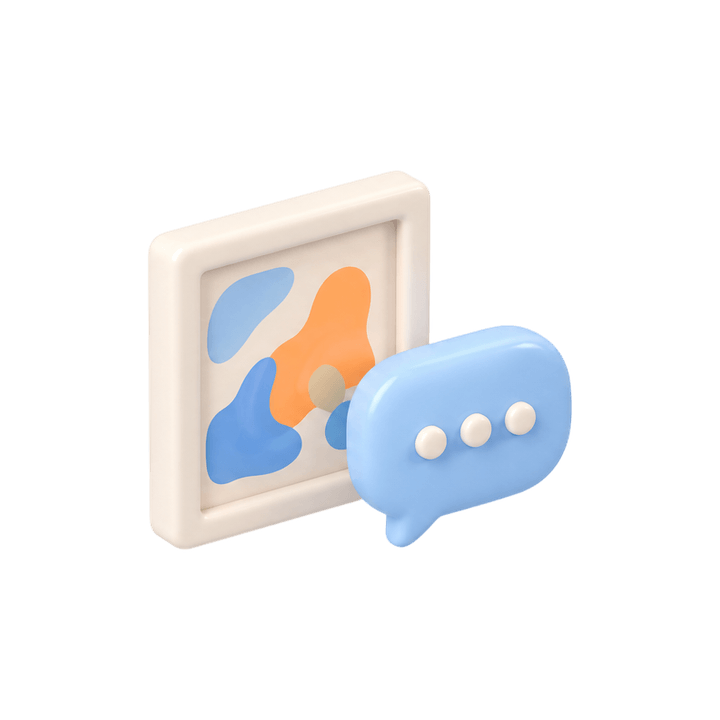
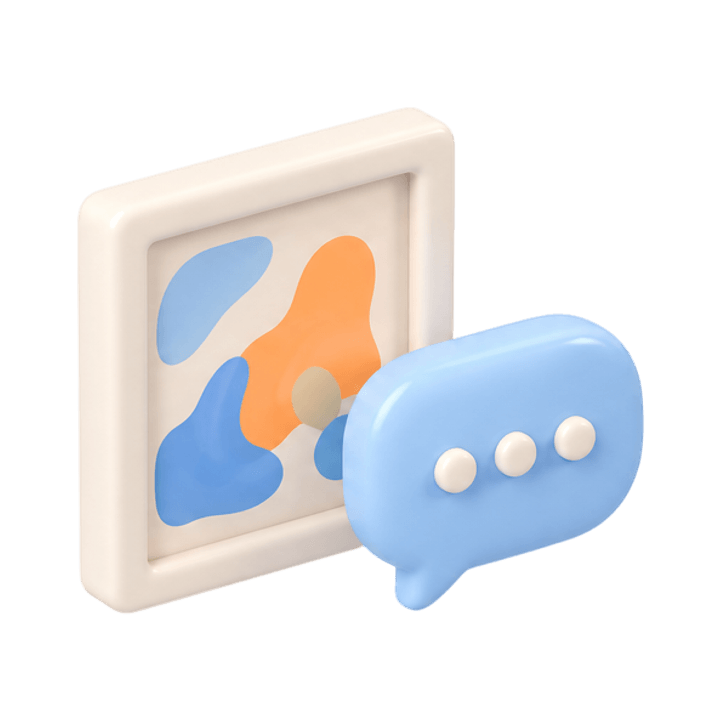
Предметы не реагируют на курсор, в Hero двигаются едва заметно
- Картинки в «Проблеме» вписаны в одинаковый квадрат.
- 3D-предметы больше не увеличиваются и не поворачиваются при наведении.
- В Hero амплитуда движения 3–5 px и медленнее, в остальных блоках
  предметы неподвижны, лента моделей тоже стоит на месте.

Changed region(s): [[0.0917, 0.1528, 0.9167, 0.8556]]

diff --git a/src/components/sections/service.tsx b/src/components/sections/service.tsx
@@ -58,7 +58,7 @@ function Polaroid({
 }) {
   return (
     <div
-      className={`absolute bg-white p-3 pb-9 shadow-[0_18px_40px_rgba(0,0,0,0.12)] transition-transform duration-500 ease-[cubic-bezier(0.16,1,0.3,1)] ${className}`}
+      className={`absolute bg-white p-3 pb-9 shadow-[0_18px_40px_rgba(0,0,0,0.12)] ${className}`}
     >
       <div className="flex h-full items-center justify-center bg-[#f4f4f4]">{children}</div>
       {caption && (
@@ -96,7 +96,7 @@ export function Service() {
                 src={MODELS.hoodie.src}
                 alt={MODELS.hoodie.alt}
                 draggable={false}
-                className={`absolute inset-0 m-auto h-[92%] w-[92%] transition-transform duration-500 group-hover:-rotate-3 group-hover:scale-105 ${modelImg}`}
+                className={`absolute inset-0 m-auto h-[92%] w-[92%] ${modelImg}`}
               />
             </>
           }
@@ -115,7 +115,7 @@ export function Service() {
                 src={MODELS.letter.src}
                 alt={MODELS.letter.alt}
                 draggable={false}
-                className={`absolute inset-0 m-auto h-[78%] w-[78%] rotate-6 transition-transform duration-500 group-hover:rotate-0 group-hover:scale-105 ${modelImg}`}
+                className={`absolute inset-0 m-auto h-[78%] w-[78%] rotate-6 ${modelImg}`}
               />
             </>
           }
@@ -128,10 +128,10 @@ export function Service() {
           title="Упаковка профиля"
           visual={
             <>
-              <Polaroid className="top-[6%] left-[2%] h-[70%] w-[58%] -rotate-6 group-hover:-rotate-9">
+              <Polaroid className="top-[6%] left-[2%] h-[70%] w-[58%] -rotate-6">
                 <img src={MODELS.letter.src} alt="" className={`h-[70%] w-[70%] -rotate-6 ${modelImg}`} />
               </Polaroid>
-              <Polaroid caption="профиль" className="right-[0%] bottom-[2%] h-[72%] w-[58%] rotate-[7deg] group-hover:rotate-[10deg]">
+              <Polaroid caption="профиль" className="right-[0%] bottom-[2%] h-[72%] w-[58%] rotate-[7deg]">
                 <img src={MODELS.skeleton.src} alt="" className={`h-[78%] w-[78%] ${modelImg}`} />
               </Polaroid>
             </>
@@ -145,7 +145,7 @@ export function Service() {
           title="Контент-система"
           visual={
             <>
-              <Polaroid caption="схема" className="inset-x-[8%] top-[10%] bottom-[2%] rotate-3 group-hover:rotate-0">
+              <Polaroid caption="схема" className="inset-x-[8%] top-[10%] bottom-[2%] rotate-3">
                 <div className="relative h-full w-full">
                   <img src={MODELS.pencil.src} alt="" className={`absolute top-[8%] left-[14%] h-[78%] w-[36%] -rotate-12 ${modelImg}`} />
                   <img src={MODELS.brush.src} alt="" className={`absolute right-[8%] bottom-[6%] h-[64%] w-[50%] ${modelImg}`} />

diff --git a/src/components/sections/models-strip.tsx b/src/components/sections/models-strip.tsx
@@ -1,8 +1,5 @@
-// Лента 3D-моделей: при прокрутке плавно уезжает вбок,
-// как полоса с одеждой у референса.
-import { useRef } from "react"
-import { motion, useReducedMotion, useScroll, useTransform } from "motion/react"
-
+// Лента 3D-моделей между блоками. Стоит неподвижно; на узком экране
+// лишние предметы просто уходят за край.
 import { MODELS } from "@/lib/models"
 
 const row = [
@@ -12,29 +9,23 @@ const row = [
   { ...MODELS.brush, rotate: -14 },
   { ...MODELS.pencil, rotate: 16 },
   { ...MODELS.pin, rotate: -8 },
-  { ...MODELS.hoodie, rotate: 5 },
 ]
 
 export function ModelsStrip() {
-  const ref = useRef<HTMLDivElement>(null)
-  const reduce = useReducedMotion()
-  const { scrollYProgress } = useScroll({ target: ref, offset: ["start end", "end start"] })
-  const x = useTransform(scrollYProgress, [0, 1], ["4%", "-28%"])
-
   return (
-    <div ref={ref} aria-hidden="true" className="overflow-hidden py-14 md:py-20">
-      <motion.div className="flex w-max items-center gap-10 md:gap-20" style={reduce ? undefined : { x }}>
+    <div aria-hidden="true" className="overflow-hidden py-14 md:py-20">
+      <div className="flex w-max items-center gap-10 px-4 md:mx-auto md:gap-14">
         {row.map((m, i) => (
           <img
             key={i}
             src={m.src}
             alt=""
             draggable={false}
-            className="h-44 w-44 object-contain drop-shadow-[0_20px_24px_rgba(0,0,0,0.16)] select-none md:h-72 md:w-72"
+            className="h-40 w-40 object-contain drop-shadow-[0_20px_24px_rgba(0,0,0,0.16)] select-none md:h-44 md:w-44"
             style={{ rotate: `${m.rotate}deg` }}
           />
         ))}
-      </motion.div>
+      </div>
     </div>
   )
 }

diff --git a/src/components/sections/about.tsx b/src/components/sections/about.tsx
@@ -1,14 +1,12 @@
 // «Обо мне»: фото в полароиде на кнопке, к нему справа снизу прилеплен
 // скелет-художник; справа имя капсом, текст и ссылка на канал.
-import { motion, useReducedMotion } from "motion/react"
+import { motion } from "motion/react"
 import { ArrowUpRight } from "lucide-react"
 
 import { CHANNEL_URL } from "@/lib/links"
 import { MODELS } from "@/lib/models"
 
 export function About() {
-  const reduce = useReducedMotion()
-
   return (
     <section id="about" className="px-4 pt-24 md:px-14 md:pt-32">
       <div className="grid items-center gap-16 bg-card px-6 py-14 md:grid-cols-[0.9fr_1.1fr] md:gap-10 md:px-14 md:py-16">
@@ -31,13 +29,11 @@ export function About() {
             aria-hidden="true"
             className="absolute -top-8 left-1/2 h-16 w-16 -translate-x-1/2 rotate-12 object-contain drop-shadow-[0_10px_12px_rgba(0,0,0,0.2)]"
           />
-          <motion.img
+          <img
             src={MODELS.skeleton.src}
             alt={MODELS.skeleton.alt}
             draggable={false}
             className="absolute -right-12 -bottom-12 h-44 w-36 rotate-6 object-contain drop-shadow-[0_20px_24px_rgba(0,0,0,0.22)] md:-right-16 md:-bottom-14 md:h-56 md:w-44"
-            animate={reduce ? undefined : { y: [0, -8, 0] }}
-            transition={{ duration: 4, repeat: Infinity, ease: "easeInOut" }}
           />
         </motion.div>
 

diff --git a/src/components/sections/hero.tsx b/src/components/sections/hero.tsx
@@ -173,39 +173,39 @@ function Objects() {
       <Model
         {...MODELS.letter}
         className="absolute top-[2%] left-[3%] h-24 w-20 md:top-[6%] md:left-[4%] md:h-48 md:w-40"
-        drift={[12, 8]}
-        duration={8}
+        drift={[4, 3]}
+        duration={10}
         rotate={-10}
       />
       <Model
         {...MODELS.skeleton}
         className="absolute bottom-[6%] left-[6%] hidden md:block md:h-64 md:w-48"
-        drift={[14, -6]}
-        duration={7.5}
+        drift={[5, -2]}
+        duration={11}
         delay={0.1}
         rotate={-4}
       />
       <Model
         {...MODELS.pin}
         className="absolute top-[3%] right-[5%] h-16 w-16 md:top-[8%] md:right-[9%] md:h-28 md:w-28"
-        drift={[-10, 10]}
-        duration={6.5}
+        drift={[-3, 4]}
+        duration={9}
         delay={0.15}
         rotate={14}
       />
       <Model
         {...MODELS.hoodie}
         className="absolute right-[3%] bottom-[14%] h-28 w-28 md:top-[36%] md:right-[1.5%] md:bottom-auto md:h-60 md:w-56"
-        drift={[-14, 0]}
-        duration={8.5}
+        drift={[-5, 0]}
+        duration={11.5}
         delay={0.25}
         rotate={8}
       />
       <Model
         {...MODELS.brush}
         className="absolute right-[15%] bottom-[2%] hidden md:block md:h-44 md:w-44"
-        drift={[-12, -10]}
-        duration={7.5}
+        drift={[-4, -3]}
+        duration={10.5}
         delay={0.3}
         rotate={-12}
       />

diff --git a/src/components/decor.tsx b/src/components/decor.tsx
@@ -147,8 +147,8 @@ export function Folder({
   )
 }
 
-/* 3D-модель: появляется, медленно ходит в сторону drift и обратно,
-   при наведении чуть подрастает и поворачивается */
+/* 3D-модель: появляется и, если задан drift, очень медленно ходит
+   в его сторону и обратно. На курсор не реагирует. */
 export function Model({
   src,
   alt,
@@ -170,7 +170,7 @@ export function Model({
   const moving = !reduce && (drift[0] !== 0 || drift[1] !== 0)
   return (
     <motion.div
-      className={cn("pointer-events-auto", className)}
+      className={cn("pointer-events-none", className)}
       initial={reduce ? false : { opacity: 0, scale: 0.9 }}
       animate={
         moving
@@ -184,14 +184,12 @@ export function Model({
         y: { duration, repeat: Infinity, ease: "easeInOut", delay: delay + 0.6 },
       }}
     >
-      <motion.img
+      <img
         src={src}
         alt={alt}
         draggable={false}
         className="h-full w-full object-contain drop-shadow-[0_18px_22px_rgba(0,0,0,0.16)] select-none"
-        style={{ rotate }}
-        whileHover={reduce ? undefined : { scale: 1.08, rotate: rotate + 6 }}
-        transition={{ type: "spring", stiffness: 260, damping: 18 }}
+        style={{ rotate: `${rotate}deg` }}
       />
     </motion.div>
   )

diff --git a/src/components/sections/faq.tsx b/src/components/sections/faq.tsx
@@ -81,7 +81,7 @@ export function Faq() {
                         src={item.sticker.src}
                         alt=""
                         aria-hidden="true"
-                        className="absolute -top-9 -right-6 h-14 w-14 object-contain drop-shadow-[0_8px_10px_rgba(0,0,0,0.2)] transition-transform duration-300 group-hover:scale-110"
+                        className="absolute -top-9 -right-6 h-14 w-14 object-contain drop-shadow-[0_8px_10px_rgba(0,0,0,0.2)]"
                         style={{ rotate: `${item.sticker.rotate}deg` }}
                       />
                     )}

diff --git a/src/components/sections/problem.tsx b/src/components/sections/problem.tsx
@@ -58,7 +58,7 @@ export function Problem() {
                 src={item.image.src}
                 alt={item.image.alt}
                 draggable={false}
-                className="h-[78%] w-[78%] object-contain drop-shadow-[0_24px_28px_rgba(0,0,0,0.14)] transition-transform duration-500 ease-[cubic-bezier(0.16,1,0.3,1)] group-hover:scale-105"
+                className="h-[78%] w-[78%] object-contain drop-shadow-[0_24px_28px_rgba(0,0,0,0.14)]"
               />
             </div>
             <h3 className="caps mt-4 text-[2.6rem] md:text-[3.1rem]">{item.title}</h3>

diff --git a/src/components/sections/contacts.tsx b/src/components/sections/contacts.tsx
@@ -44,15 +44,11 @@ export function Contacts() {
           <Model
             {...MODELS.letter}
             className="absolute top-1/2 left-0 hidden h-64 w-56 -translate-y-1/2 md:block"
-            drift={[14, 0]}
-            duration={8}
             rotate={-8}
           />
           <Model
             {...MODELS.hoodie}
             className="absolute top-1/2 right-0 hidden h-72 w-72 -translate-y-1/2 md:block"
-            drift={[-14, 0]}
-            duration={8.5}
             rotate={8}
           />
         </div>
